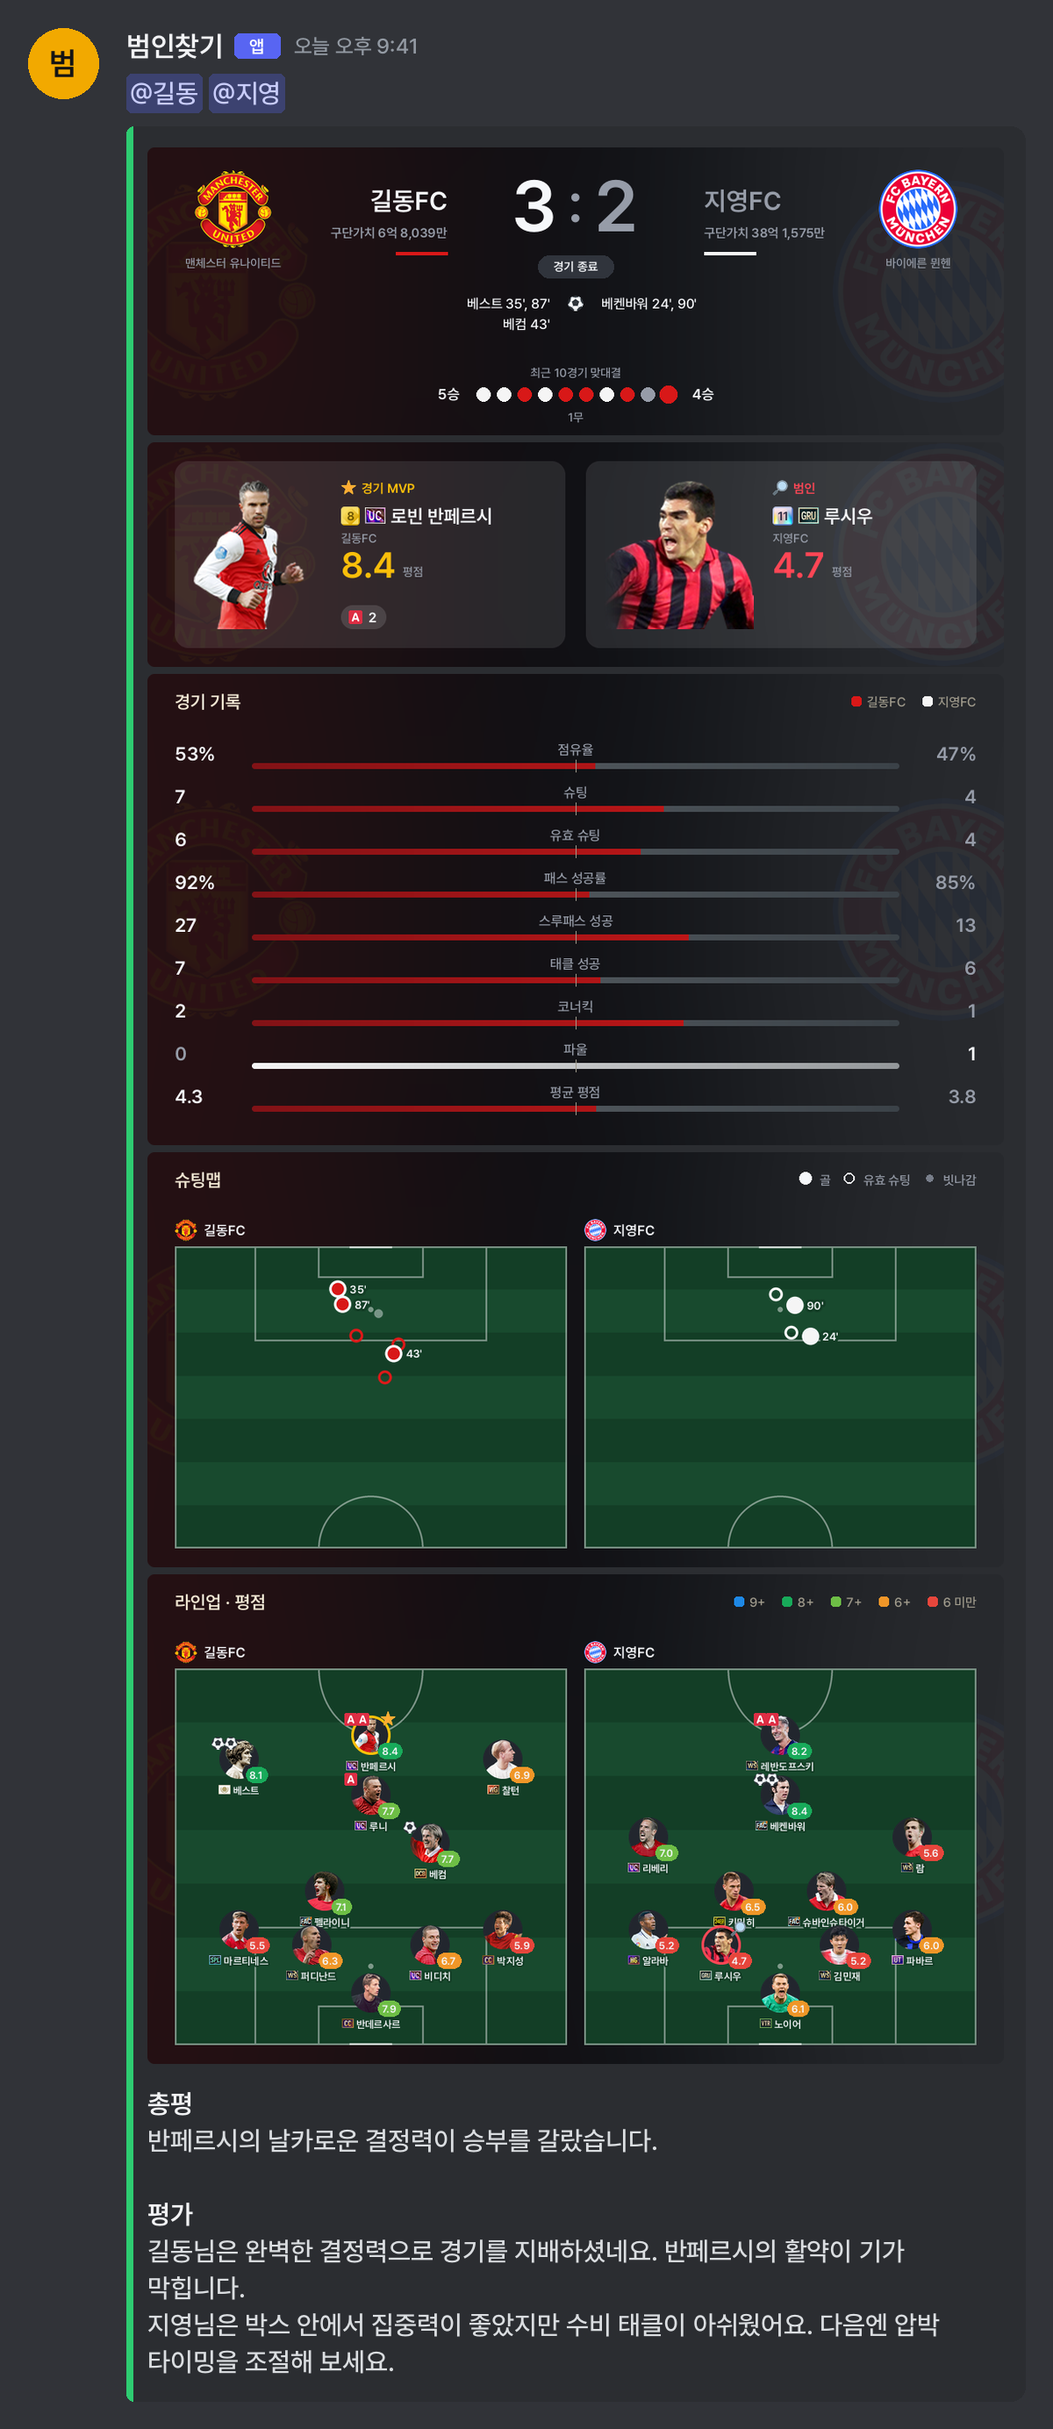
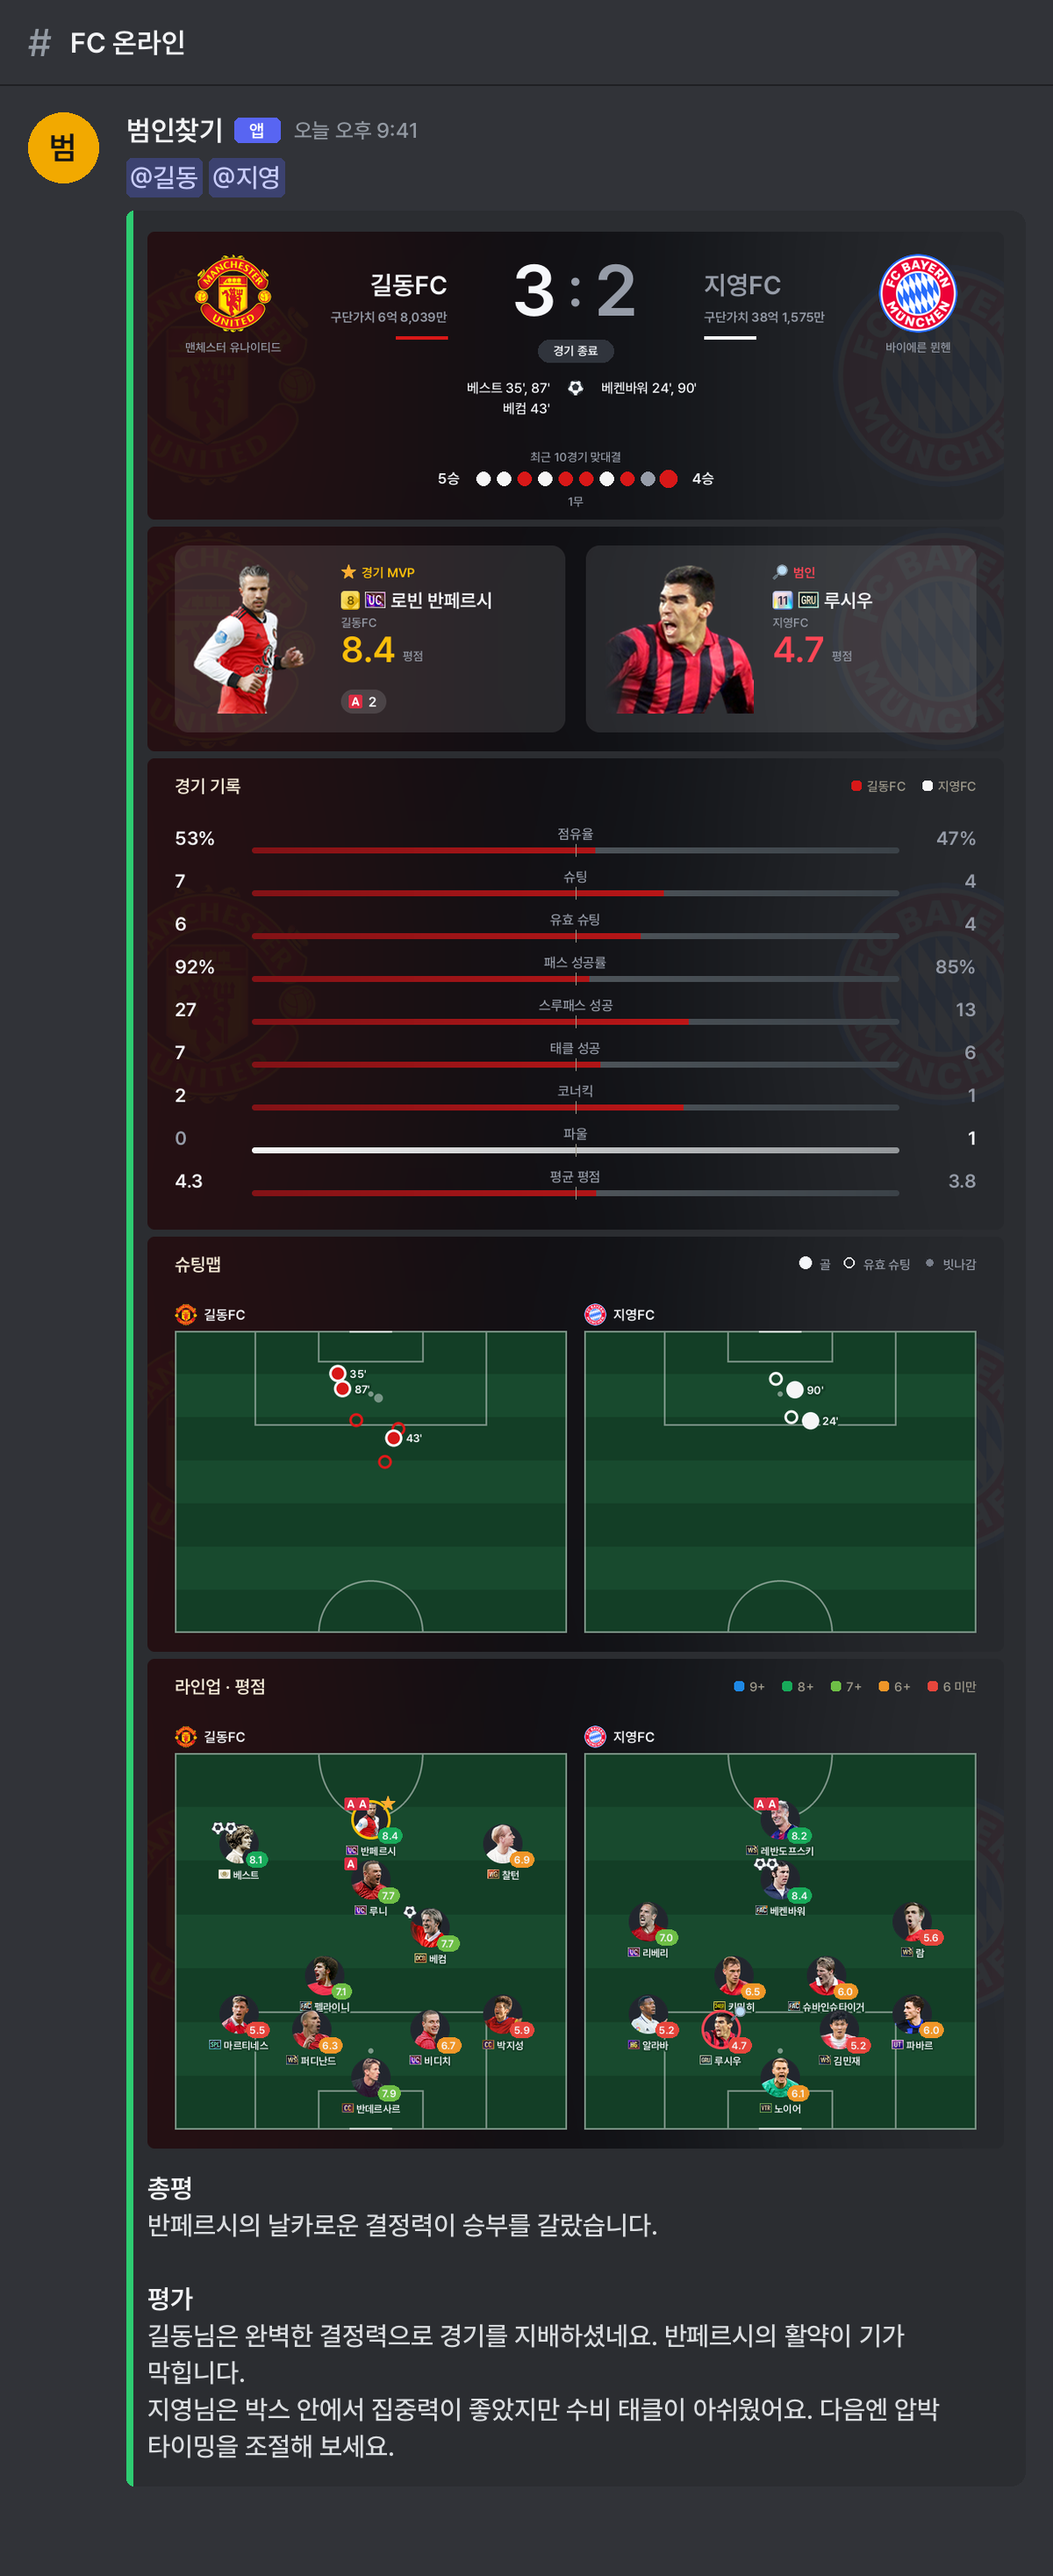
README 예시: 표 대신 같은 폭(32%) 세 장을 한 줄로, 높이를 맞추고 스레드 제목 줄 추가
GitHub이 표를 본문 폭에 맞춰 줄일 때 머리글이 짧은 칸이 더 좁아지던 문제

diff --git a/tools/discord_mock.py b/tools/discord_mock.py
@@ -1,6 +1,7 @@
 """README용: 리포트 메시지를 디스코드에 올라온 모습처럼 한 장으로 (다크 테마, 2배 해상도).
 
-봇 이름 → 멘션 → 왼쪽 색 띠 컨테이너(이미지 갤러리 + 총평/평가 + 버튼). GIF가 있으면 같은 장면 수로 함께 움직인다.
+스레드 제목 → 봇 이름 → 멘션 → 왼쪽 색 띠 컨테이너(이미지 갤러리 + 총평/평가 + 버튼).
+GIF가 있으면 같은 장면 수로 함께 움직인다. README에 나란히 놓도록 높이를 맞출 수 있다(pad).
 """
 from __future__ import annotations
 
@@ -60,8 +61,9 @@ def _corner_mask(size: tuple[int, int], radius: int) -> Image.Image:
     return mask.resize(size, Image.LANCZOS)
 
 
-def render(files: list[tuple], payload: dict, mentions: list[str], time: str = "오늘 오후 9:41") -> tuple[bytes, str]:
-    """반환: (이미지, 확장자 gif|png)."""
+def render(files: list[tuple], payload: dict, mentions: list[str], channel: str,
+           time: str = "오늘 오후 9:41") -> list[Image.Image]:
+    """반환: 장면들 (정지 이미지면 1장)."""
     accent, text, button = _blocks(payload)
     media = [_frames(data) for _, data, *_ in files]
     count = max(len(m) for m in media)
@@ -78,12 +80,16 @@ def render(files: list[tuple], payload: dict, mentions: list[str], time: str = "
     line_h = 21 * S
     card_h = (PAD * S + sum(m[0].height for m in scaled) + GAP * S * (len(scaled) - 1)
               + (PAD * S + len(lines) * line_h if lines else 0) + (PAD * S + 32 * S if button else 0) + PAD * S)
-    top = 16 * S
+    bar = 48 * S  # 스레드 제목 줄
+    top = bar + 16 * S
     card_y = top + 22 * S + 8 * S + (26 * S if mentions else 0)
     height = card_y + card_h + 16 * S
 
     base = Image.new("RGB", (W * S, height), BG)
     d = ImageDraw.Draw(base)
+    d.text((16 * S, bar / 2), "#", font=_f(22), fill=MUTED, anchor="lm")
+    d.text((40 * S, bar / 2), channel, font=_f(16, True), fill=NAME, anchor="lm")
+    d.line((0, bar, W * S, bar), fill=(31, 32, 35), width=S)
     # 봇 프로필·이름·앱 배지·시각
     d.ellipse((16 * S, top, 56 * S, top + 40 * S), fill=(242, 169, 0))
     d.text((36 * S, top + 20 * S), "범", font=_f(18, True), fill=(20, 20, 20), anchor="mm")
@@ -130,7 +136,19 @@ def render(files: list[tuple], payload: dict, mentions: list[str], time: str = "
         for m, mask, slot in zip(scaled, masks, slots):
             frame.paste(m[min(i, len(m) - 1)], slot, mask)
         frames.append(frame)
-    if count == 1:
+    return frames
+
+
+def encode(frames: list[Image.Image], height: int | None = None) -> tuple[bytes, str]:
+    """height가 있으면 아래를 디스코드 배경색으로 채워 맞춘다. 반환: (이미지, gif|png)."""
+    if height and height > frames[0].height:
+        padded = []
+        for f in frames:
+            canvas = Image.new("RGB", (f.width, height), BG)
+            canvas.paste(f, (0, 0))
+            padded.append(canvas)
+        frames = padded
+    if len(frames) == 1:
         out = BytesIO()
         frames[0].save(out, "PNG", optimize=True)
         return out.getvalue(), "png"

diff --git a/tools/readme_samples.py b/tools/readme_samples.py
@@ -31,8 +31,9 @@ ROMAN = ["Cheolsu", "Younghee", "Gildong", "Miae", "Minsu", "Jiyoung", "Donghyun
          "Junho", "Haneul"]
 OUT = ROOT_DIR / "docs" / "images"
 RAW = ROOT_DIR / "data" / "samples"  # 리포트 원본 (커밋 안 함)
+CHANNELS = {"pubg": "배틀그라운드", "lol": "리그 오브 레전드", "fc": "FC 온라인"}
 sys.path.insert(0, str(Path(__file__).resolve().parent))
-from discord_mock import render  # noqa: E402
+from discord_mock import encode, render  # noqa: E402
 
 
 class Pseudonyms:
@@ -86,19 +87,24 @@ def save(game: str, files: list[tuple], payload: dict, mentions: list[str]) -> N
         (folder / name).write_bytes(data)
     (folder / "message.json").write_text(json.dumps({"files": [f[0] for f in files], "payload": payload,
                                                     "mentions": mentions}, ensure_ascii=False, indent=1))
-    compose(game)
 
 
-def compose(game: str) -> None:
-    folder = RAW / game
-    message = json.loads((folder / "message.json").read_text())
-    files = [(name, (folder / name).read_bytes()) for name in message["files"]]
-    data, ext = render(files, message["payload"], message["mentions"])
+def compose_all() -> None:
+    """세 게임을 같은 높이로 맞춰 README에 나란히."""
+    frames = {}
+    for game in CHANNELS:
+        folder = RAW / game
+        message = json.loads((folder / "message.json").read_text())
+        files = [(name, (folder / name).read_bytes()) for name in message["files"]]
+        frames[game] = render(files, message["payload"], message["mentions"], CHANNELS[game])
+    height = max(f[0].height for f in frames.values())
     OUT.mkdir(parents=True, exist_ok=True)
-    for old in OUT.glob(f"{game}.*"):
-        old.unlink()
-    (OUT / f"{game}.{ext}").write_bytes(data)
-    print(f"{game}.{ext} {len(data) / 2**20:.2f}MB")
+    for game, game_frames in frames.items():
+        data, ext = encode(game_frames, height)
+        for old in OUT.glob(f"{game}.*"):
+            old.unlink()
+        (OUT / f"{game}.{ext}").write_bytes(data)
+        print(f"{game}.{ext} {len(data) / 2**20:.2f}MB")
 
 
 def main() -> None:
@@ -109,8 +115,7 @@ def main() -> None:
     parser.add_argument("--compose-only", action="store_true", help="data/samples의 원본으로 합성만")
     args = parser.parse_args()
     if args.compose_only:
-        for game in ("pubg", "lol", "fc"):
-            compose(game)
+        compose_all()
         return
     settings = load_settings()
     people = json.loads(settings.players_path.read_text(encoding="utf-8"))["players"]
@@ -164,6 +169,7 @@ def main() -> None:
                                             key, model, FcPrices(ROOT_DIR / "data" / "fc_meta", meta))
     assert not fake.leaks(match, payload), "FC: 실제 이름이 남음"
     save("fc", files, payload, [friends[o].name for o in sides if o in friends])
+    compose_all()
 
 
 if __name__ == "__main__":

diff --git a/README.md b/README.md
@@ -11,18 +11,11 @@
 
 > 디스코드에 실제로 올라오는 모습입니다 (누르면 크게). 실제 경기로 만들었고 이름과 닉네임만 가명으로 바꿨습니다 ([tools/readme_samples.py](tools/readme_samples.py)).
 
-<table>
-  <tr>
-    <th width="33%">🪂 배틀그라운드</th>
-    <th width="33%">⚔ 리그 오브 레전드</th>
-    <th width="33%">⚽ FC 온라인</th>
-  </tr>
-  <tr>
-    <td width="33%" valign="top"><a href="docs/images/pubg.gif"><img src="docs/images/pubg.gif" width="300" alt="배그 리포트"></a></td>
-    <td width="33%" valign="top"><a href="docs/images/lol.gif"><img src="docs/images/lol.gif" width="300" alt="롤 리포트"></a></td>
-    <td width="33%" valign="top"><a href="docs/images/fc.png"><img src="docs/images/fc.png" width="300" alt="FC 리포트"></a></td>
-  </tr>
-</table>
+<p>
+  <a href="docs/images/pubg.gif"><img src="docs/images/pubg.gif" width="32%" alt="배틀그라운드 리포트"></a>
+  <a href="docs/images/lol.gif"><img src="docs/images/lol.gif" width="32%" alt="리그 오브 레전드 리포트"></a>
+  <a href="docs/images/fc.png"><img src="docs/images/fc.png" width="32%" alt="FC 온라인 리포트"></a>
+</p>
 
 - **배그**: 결과·순위 · 스쿼드 기록(MVP·범인) · 이동 경로 GIF · 교전 흐름 GIF · 쓴 무기 / 팀 데스매치는 라운드 결과·양 팀 비교
 - **롤**: 결과 · 선수 비교(MVP·ACE·범인) · 오브젝트 · 골드 차이 GIF · OP.GG 버튼 / 부계정도 사람 기준으로
